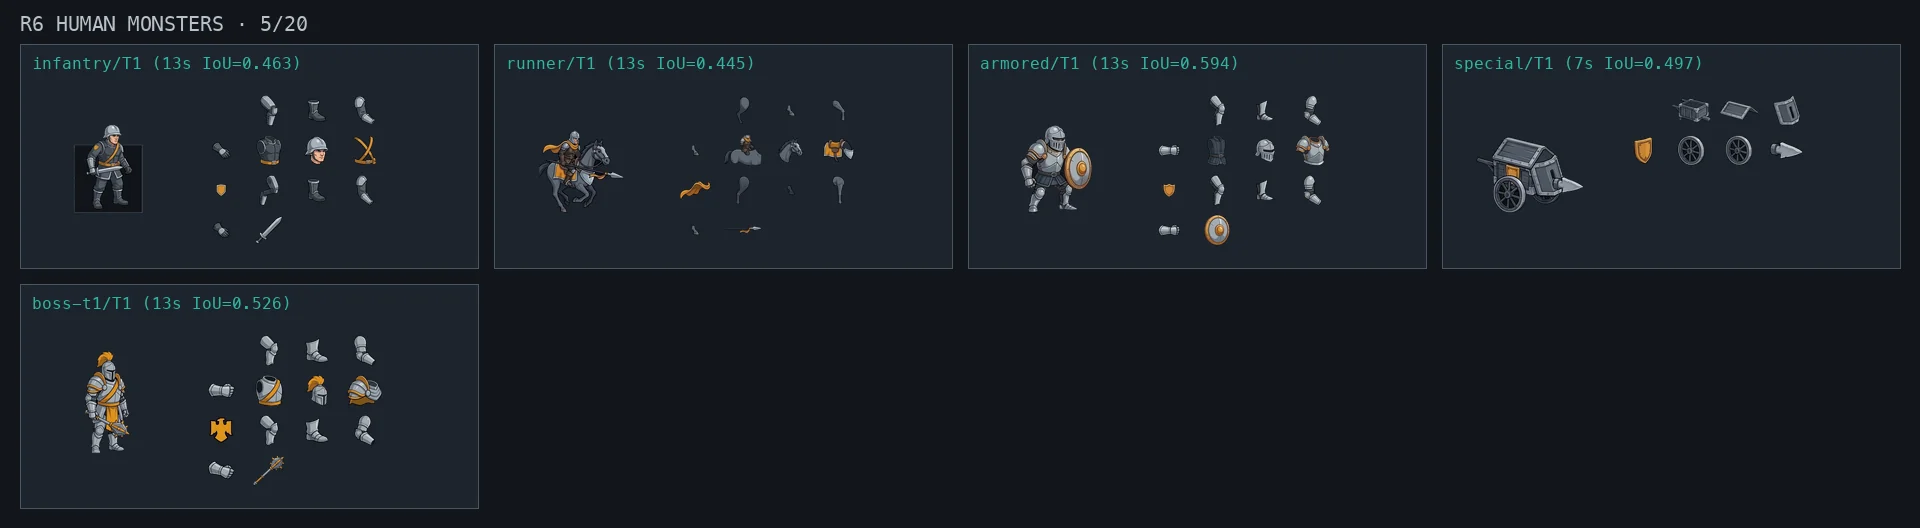
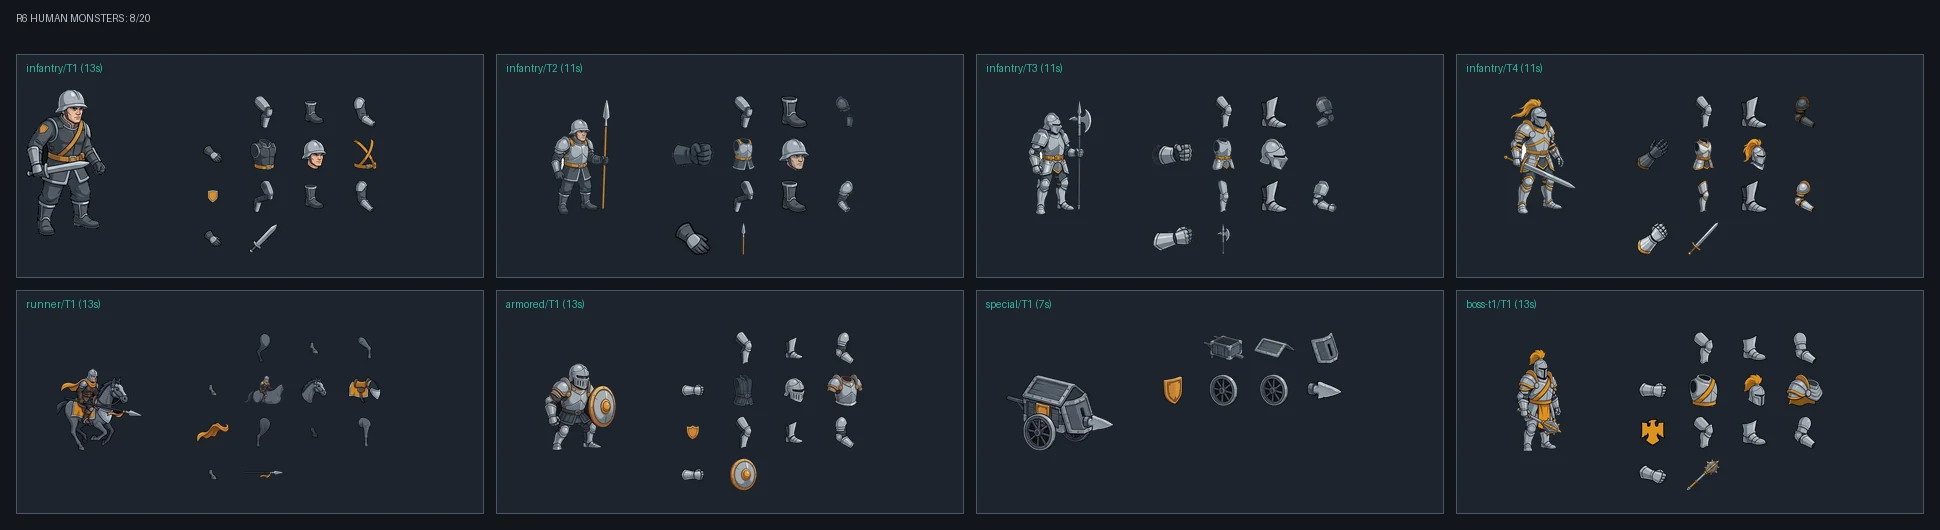
철갑 인간 T1 재요청 2건 반영 및 보병 T2~T4 분해 시트 추가

diff --git a/asset-source/r6/monsters/human/STATUS.md b/asset-source/r6/monsters/human/STATUS.md
@@ -1,23 +1,24 @@
 # 철갑 인간 (`human`) 분해 시트 진행 현황
 
 - 기준: `docs/renewal/r6/PRD-r6.md` §4, `docs/renewal/r6/tech/monster-pipeline.md`, `docs/renewal/r6/bible/monsters.md`, `docs/renewal/r6/bible/sheets/monsters-human.webp`
-- 진행률: **5 / 20 완료** (`parts/` T1 원본을 `<계통>/<단계>/`로 복사 통일, `cut_parts.py` 절단 검증 통과 5개)
-- 한도 중단: 이미지 생성 할당량 소진 확인 (`HTTP 429 RESOURCE_EXHAUSTED`, 2026-11-25 20:08 KST 확인 기준 남은 시간 42분 → 리셋 예정: **2026-11-25 20:51 KST** 전후)
+- 진행률: **8 / 20 완료** (`cut_parts.py` 절단 검증 통과 8개 · `REDO.md` 조립 재요청 2건 반영 완료)
 
-## 완료 목록 (5개체)
+## 완료 목록 (8개체)
 
 | 개체 | 안내판 | 배율 | 슬롯 수 | 재사용 부위 | 절단 검사 |
 |---|---|---:|---:|---|---|
-| `infantry/T1` | `infantry-biped.json` | 0.95 | 13 | 없음(기본) | 통과 (`ready=true`, `issues=0`, IoU 0.463) |
-| `runner/T1` | `runner-quadruped.json` | 0.85 | 13 | 없음(기본) | 통과 (`ready=true`, 비차단 `speck` 2건, IoU 0.445) |
+| `infantry/T1` | `infantry-biped.json` | 0.95 | 13 | 없음(기본 · **REDO 반영: assembly 하단 사각 배경 투명 제거**) | 통과 (`ready=true`, `issues=0`, 기본 IoU 0.633 / placement 0.517) |
+| `infantry/T2` | `infantry-biped.json` | 1.05 | 11 (`+gear`) | `arm-hand-near`, `leg-*`, `leg-foot-*` ← `T1` | 통과 (`issues=0`, IoU 0.424) |
+| `infantry/T3` | `infantry-biped.json` | 1.15 | 11 (`+gear`) | 없음(판금·미늘창·근접다리 신규, 원거리 다리/부츠 armored T1 규격) | 통과 (`issues=0`, IoU 0.524) |
+| `infantry/T4` | `infantry-biped.json` | 1.28 | 11 (`+gear`) | 없음(금테 판금·깃털투구·대검 신규, 원거리 다리/부츠 armored T1 규격) | 통과 (`issues=0`, IoU 0.523) |
+| `runner/T1` | `runner-quadruped.json` | 0.85 | 13 | 없음(기본 · **REDO 반영: `body` 기수 머리 목 위까지 완전 복원**) | 통과 (`ready=true`, 기본 IoU 0.448 / placement 0.722) |
 | `armored/T1` | `armored-biped.json` | 1.10 | 13 | 없음(기본) | 통과 (`ready=true`, 비차단 `speck` 1건, IoU 0.594) |
 | `special/T1` | `special-wheeled.json` | 1.00 | 7 | 없음(기본) | 통과 (`ready=true`, 비차단 `speck` 2건, IoU 0.497) |
 | `boss-t1/T1` | `boss-biped.json` | 1.65 | 13 | 없음(기본) | 통과 (`ready=true`, 비차단 `speck` 1건, IoU 0.526) |
 
-## 남은 목록 (15개체 · 429 한도 해제 후 재개)
+## 남은 목록 (12개체 · 순차 진행 중)
 
-- `infantry` (`infantry-biped.json`): `T2` (1.05), `T3` (1.15), `T4` (1.28)
-- `runner` (`runner-quadruped.json`): `T2` (0.95), `T3` (1.05), `T4` (1.18)
+- `runner` (`runner-quadruped.json`): `T2` (0.95, 조립 완료·파츠 생성 중), `T3` (1.05, 조립 완료), `T4` (1.18)
 - `armored` (`armored-biped.json`): `T2` (1.22), `T3` (1.35), `T4` (1.50)
 - `special` (`special-wheeled.json`): `T2` (1.12), `T3` (1.25), `T4` (1.38)
 - 보스: `boss-t2/T2` (`boss-quadruped.json`, 1.80), `boss-t3/T3` (`boss-biped.json`, 2.00), `boss-t4/T4` (`boss-biped.json`, 2.20)
